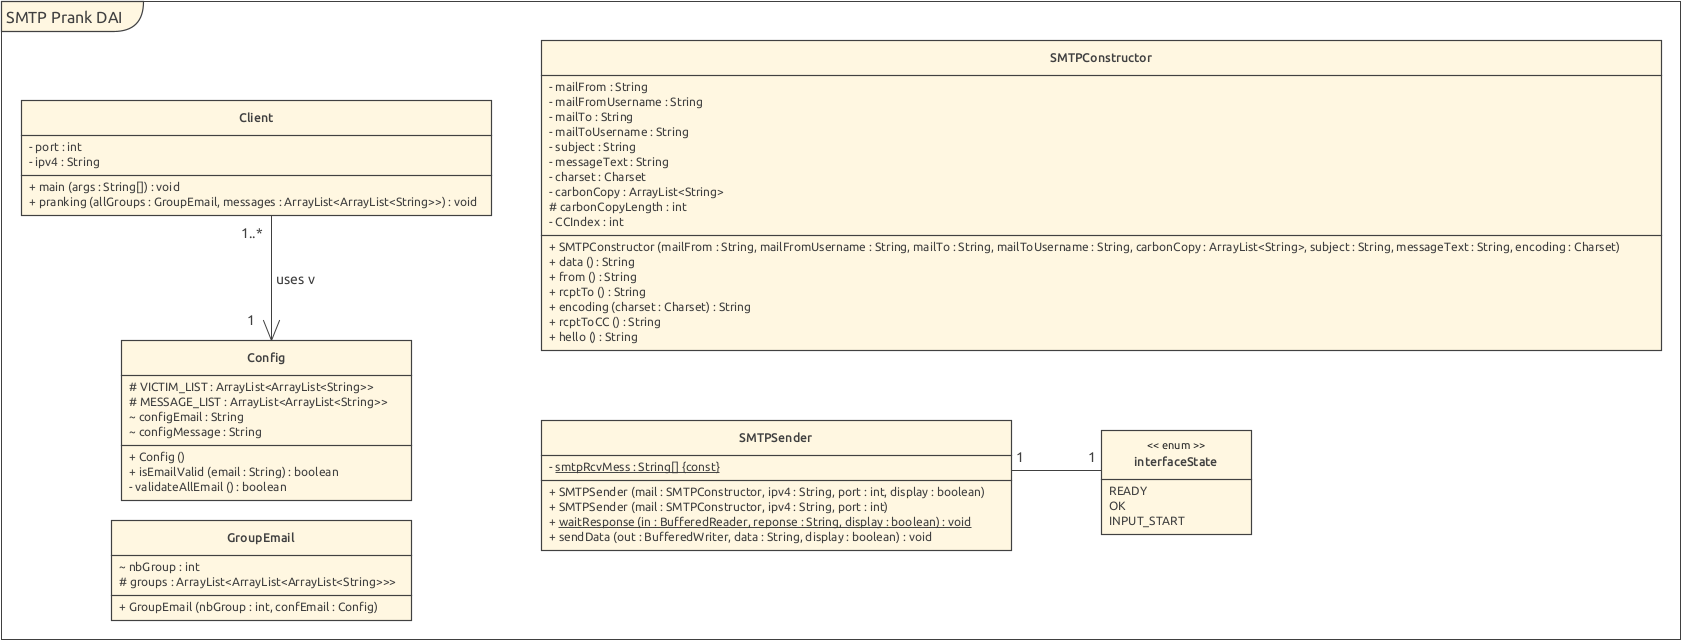
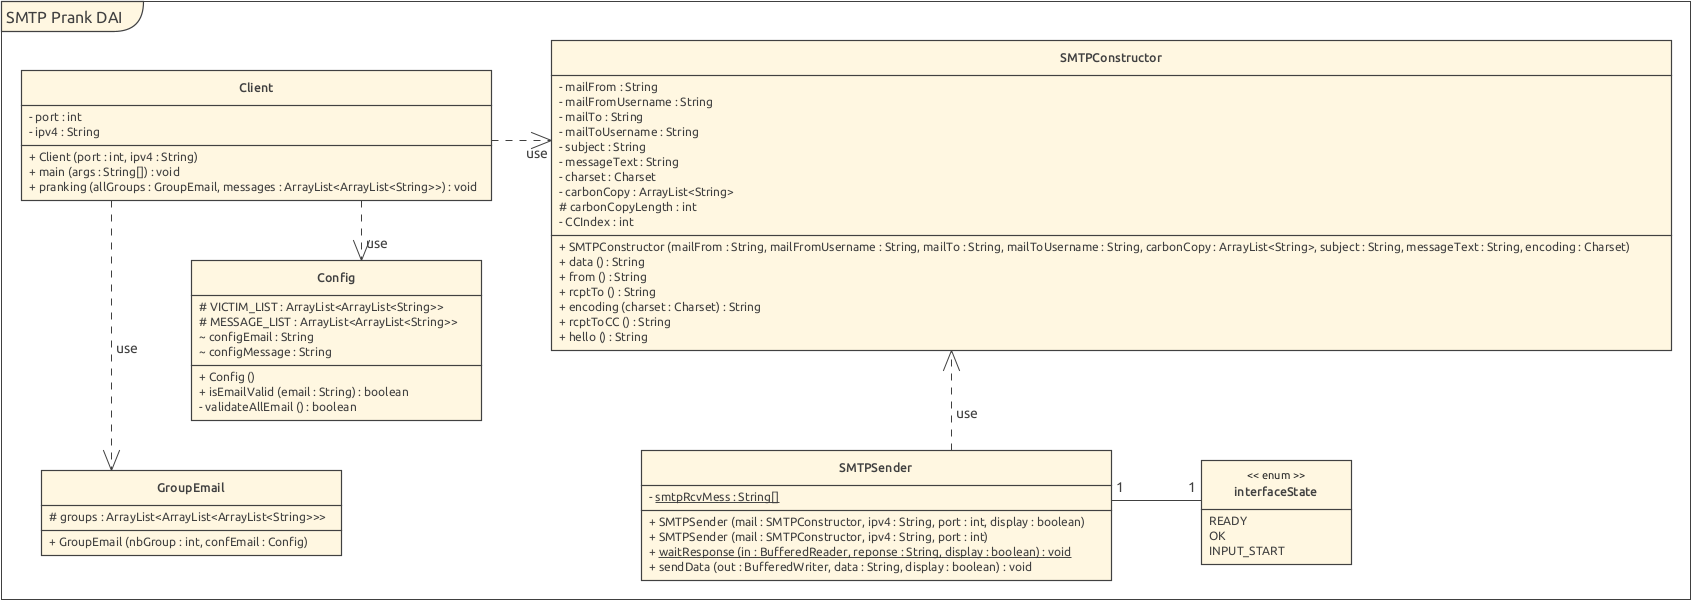
Final?, README and import deleted

Changed region(s): [[0.0, 0.0599, 1.0, 1.0], [0.0, 0.0, 0.0927, 0.0599]]

diff --git a/src/main/java/ch/heig/dai/lab/smtp/Config.java b/src/main/java/ch/heig/dai/lab/smtp/Config.java
@@ -1,8 +1,5 @@
 package ch.heig.dai.lab.smtp;
 
-
-import ch.heig.dai.lab.smtp.smtputils.SMTPConstructor;
-
 import java.io.BufferedReader;
 import java.io.FileNotFoundException;
 import java.io.FileReader;

diff --git a/README.md b/README.md
@@ -24,6 +24,10 @@ you want to make to the messages you want to send and to which addresses you wan
 ___
 ## How does it work and how to use it?
 
+### Class diagram
+
+![](UML%20smtp.png)
+
 ### The email configuration
 
 The emails are sent in groups, where each group has **one sender**
